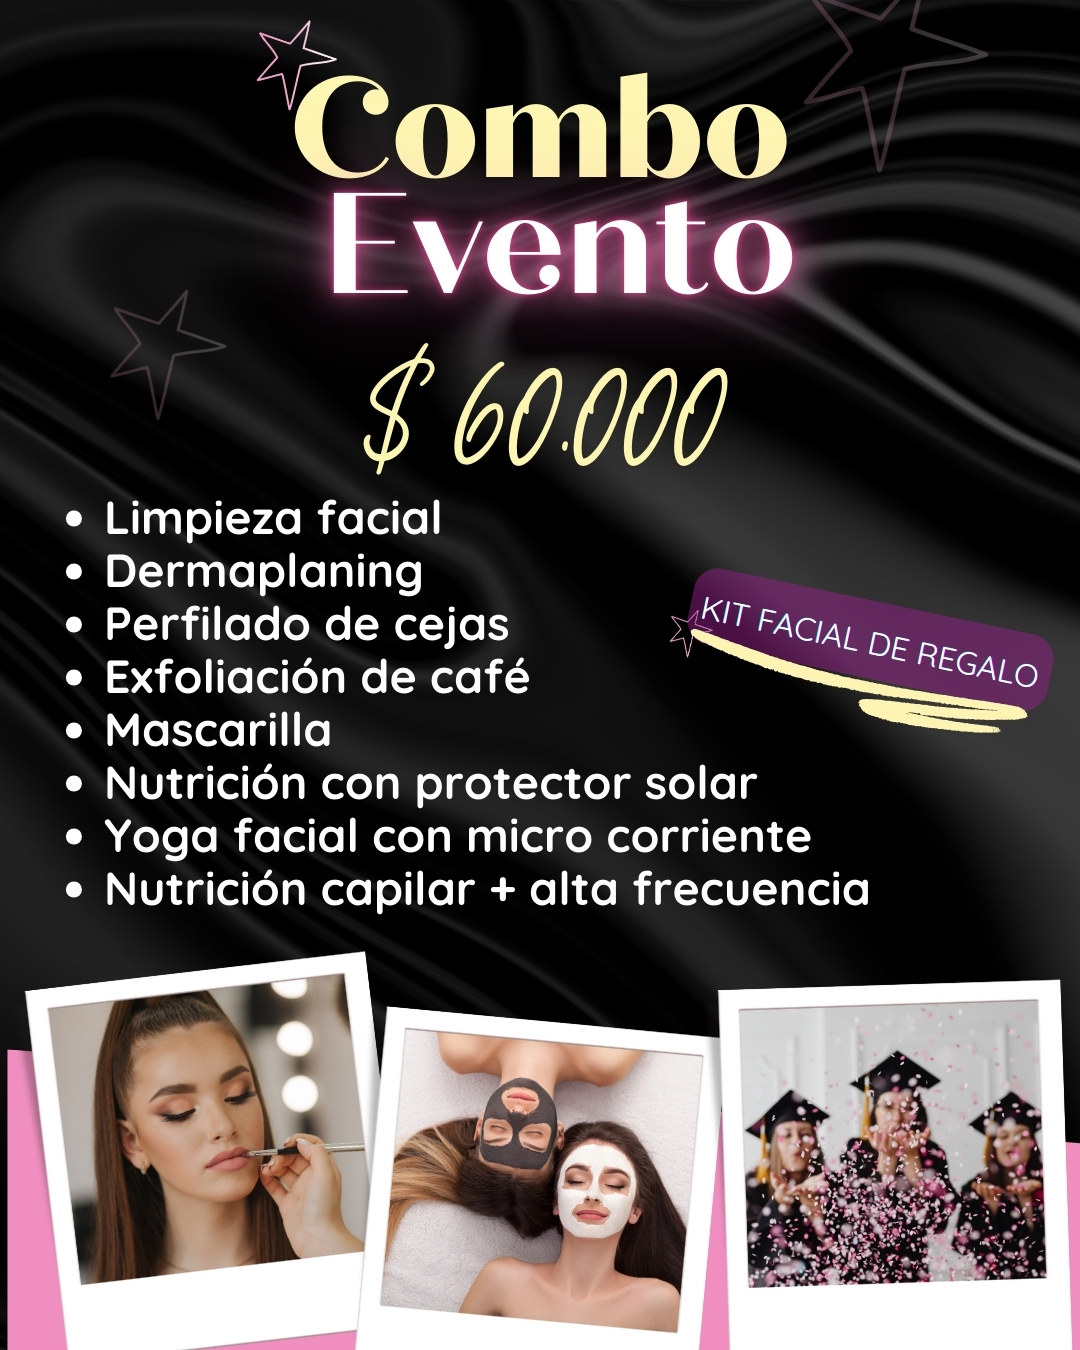
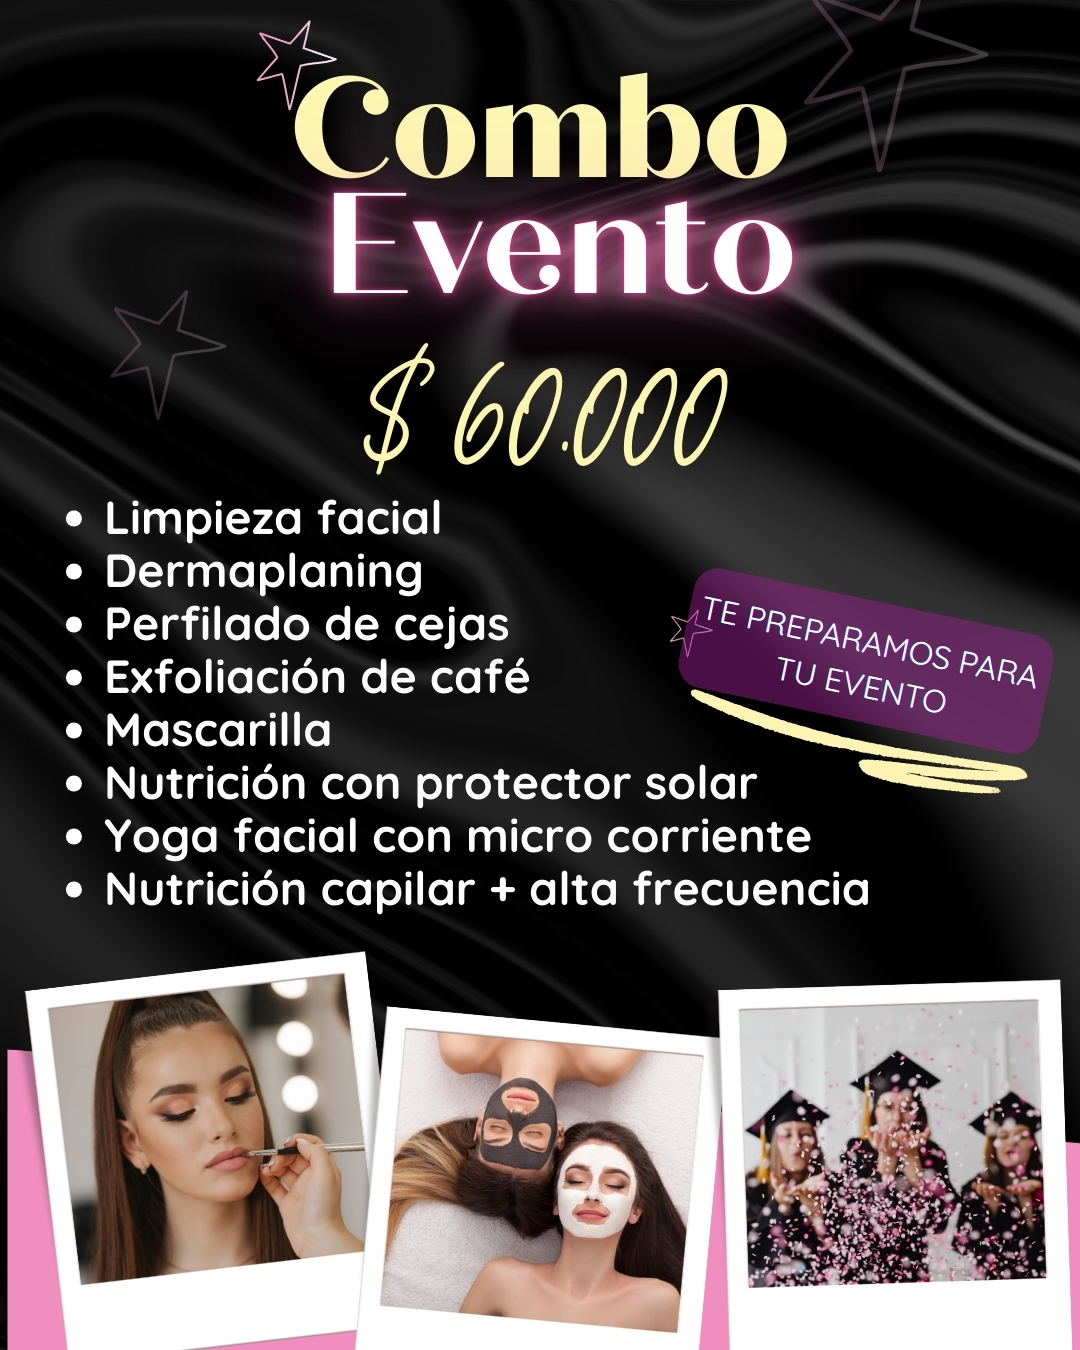
se cambiaron promos, imagenes y precios

Changed region(s): [[0.6111, 0.4356, 0.9778, 0.5911]]

diff --git a/catalogo.html b/catalogo.html
@@ -662,7 +662,7 @@
                 <div style="display: grid; grid-template-columns: repeat(auto-fit, minmax(300px, 1fr)); gap: 30px;">
                     <!-- mujer 1 -->
                     <div class="promo-card" style="position: relative;">
-                        <div class="featured-badge">🌺 Día de la Mujer</div>
+                        <div class="featured-badge">🌺 Todo Marzo</div>
                         <img src="imagenes/spa/promos/mujer-1.jpg" alt="promo mujer 1" class="promo-image"
                             loading="lazy">
                         <div style="padding: 30px;">
@@ -681,7 +681,7 @@
 
                     <!-- mujer 2 -->
                     <div class="promo-card" style="position: relative;">
-                        <div class="featured-badge">🌺 Día de la Mujer</div>
+                        <div class="featured-badge">🌺 Todo Marzo</div>
                         <img src="imagenes/spa/promos/mujer-2.jpg" alt="promo mujer 2" class="promo-image"
                             loading="lazy">
                         <div style="padding: 30px;">
@@ -700,7 +700,7 @@
 
                     <!-- Promo Bienestar -->
                     <div class="promo-card" style="position: relative;">
-                        <div class="featured-badge">⛱ Verano</div>
+                        <div class="featured-badge">⛱ Últimos días</div>
                         <img src="imagenes/spa/promos/promo-bienestar.jpg" alt="promo bienestar" class="promo-image"
                             loading="lazy">
                         <div style="padding: 30px;">
@@ -719,7 +719,7 @@
 
                     <!-- Promo masaje premium -->
                     <div class="promo-card" style="position: relative;">
-                        <div class="featured-badge">⭐ Masaje Premium</div>
+                        <div class="featured-badge">⭐</div>
                         <img src="imagenes/spa/promos/masaje-premium.jpg" alt="Masaje Premium" class="promo-image"
                             loading="lazy">
                         <div style="padding: 30px;">
@@ -759,7 +759,7 @@
 
                     <!-- Super Promo -->
                     <div class="promo-card" style="position: relative;">
-                        <div class="featured-badge">🔥 SUPER PROMO</div>
+                        <div class="featured-badge">🔥</div>
                         <img src="imagenes/spa/promos/super-promo.jpg" alt="super promo" class="promo-image"
                             loading="lazy">
                         <div style="padding: 30px;">
@@ -768,7 +768,7 @@
                                 💆 3 masajes de 60 minutos completos
                             </p>
                             <div style="display: flex; justify-content: space-between; align-items: center;">
-                                <span style="font-size: 1.5rem; font-weight: 700; color: var(--primary);">$85.000</span>
+                                <span style="font-size: 1.5rem; font-weight: 700; color: var(--primary);">$120.000</span>
                                 <a href="https://wa.me/5492615104019?text=Hola! Me interesa la Super Promo de 3 masajes"
                                     class="whatsapp-btn" target="_blank">
                                     <i class="fa-brands fa-whatsapp"></i> Reservar
@@ -1159,7 +1159,8 @@
                 <div class="info-card" style="margin-top: 50px;">
                     <div style="display: grid; grid-template-columns: repeat(auto-fit, minmax(250px, 1fr)); gap: 30px;">
                         <div>
-                            <h4 style="color: var(--primary); margin-bottom: 10px; font-size: 1.2rem;">Transferencia</h4>
+                            <h4 style="color: var(--primary); margin-bottom: 10px; font-size: 1.2rem;">Transferencia
+                            </h4>
                             <p style="color: #666; font-size: 0.95rem;">
                                 <strong>Alias / CBU</strong><br>
                                 Consultar por WhatsApp
@@ -1509,7 +1510,7 @@
 
                     <!-- Perfilado de Cejas -->
                     <div class="promo-card">
-                        <img src="imagenes/estetica/promos/perfilado-cejas.jpg" alt="promo perfilado de cejas"
+                        <img src="imagenes/estetica/promos/perfilado-cejas.jpg" alt="perfilado de cejas"
                             class="promo-image" loading="lazy">
                         <div style="padding: 30px;">
                             <h3 style="font-size: 1.5rem; margin-bottom: 15px; color: var(--dark);">Perfilado de Cejas
@@ -1616,19 +1617,19 @@
 
                     <!-- alisado + limpieza facial -->
                     <div class="promo-card">
-                        <img src="imagenes/estetica/promos/4.jpg" alt="Alisado + Limpieza facial" class="promo-image"
-                            loading="lazy">
+                        <img src="imagenes/estetica/promos/nutricion-limpieza-facial.jpg"
+                            alt="Nutricion + Limpieza facial" class="promo-image" loading="lazy">
                         <div style="padding: 30px;">
-                            <h3 style="font-size: 1.5rem; margin-bottom: 15px; color: var(--dark);">Alisado y facial
+                            <h3 style="font-size: 1.5rem; margin-bottom: 15px; color: var(--dark);">Nutrición y facial
                             </h3>
                             <p style="color: #666; margin-bottom: 20px; line-height: 1.8;">
-                                ✓ Alisado <br>
+                                ✓ Nutrición <br>
                                 ✓ Limpieza facial <br>
                             </p>
                             <div style="margin-bottom: 20px; text-align: center;">
                                 <span style="font-size: 1.8rem; font-weight: 700; color: var(--primary);">$35.000</span>
                             </div>
-                            <a href="https://wa.me/5492615104019?text=Hola! Me interesa el alisado + limpieza facial"
+                            <a href="https://wa.me/5492615104019?text=Hola! Me interesa la nutrición + limpieza facial"
                                 class="whatsapp-btn" target="_blank" style="width: 100%; justify-content: center;">
                                 <i class="fa-brands fa-whatsapp"></i> Reservar
                             </a>
@@ -1637,8 +1638,8 @@
 
                     <!-- limpieza facial + alisado con nutricion -->
                     <div class="promo-card">
-                        <img src="imagenes/estetica/promos/5.jpg" alt="Limpieza facial + alisado con nutricion"
-                            class="promo-image" loading="lazy">
+                        <img src="imagenes/estetica/promos/limpieza-facial-profunda.jpg"
+                            alt="Limpieza facial + alisado con nutricion" class="promo-image" loading="lazy">
                         <div style="padding: 30px;">
                             <h3 style="font-size: 1.5rem; margin-bottom: 15px; color: var(--dark);">Facial y alisado con
                                 nutrición
@@ -1667,6 +1668,27 @@
                 <h2 class="section-title">💆 Tratamientos Corporales</h2>
                 <div
                     style="display: grid; grid-template-columns: repeat(auto-fit, minmax(320px, 1fr)); gap: 30px; margin-top: 50px;">
+
+                    <!-- Piernas Cansadas -->
+                    <div class="promo-card">
+                        <img src="imagenes/estetica/promos/piernas-cansadas.jpg" alt="piernas cansadas"
+                            class="promo-image" loading="lazy">
+                        <div style="padding: 30px;">
+                            <h3 style="font-size: 1.5rem; margin-bottom: 15px; color: var(--dark);">Piernas Cansadas
+                            </h3>
+                            <p style="color: #666; margin-bottom: 20px; line-height: 1.8;">
+                                ✓ Masaje de 40 minutos<br>
+                                ✓ 10 minutos de botas de presoterapia de regalo 🎁
+                            </p>
+                            <div style="margin-bottom: 20px; text-align: center;">
+                                <span style="font-size: 1.8rem; font-weight: 700; color: var(--primary);">$40.000</span>
+                            </div>
+                            <a href="https://wa.me/5492615104019?text=Hola! Me interesa la promo de piernas cansadas"
+                                class="whatsapp-btn" target="_blank" style="width: 100%; justify-content: center;">
+                                <i class="fa-brands fa-whatsapp"></i> Reservar
+                            </a>
+                        </div>
+                    </div>
 
                     <!-- Drenajes Linfáticos -->
                     <div class="promo-card">
@@ -1855,29 +1877,9 @@
                         </div>
                     </div>
 
-                    <!-- Promo Especial Belleza Pies -->
-                    <div class="promo-card">
-                        <img src="imagenes/estetica/promos/reflexo-podal.jpg" alt="promo reflexo podal"
-                            class="promo-image" loading="lazy">
-                        <div style="padding: 30px;">
-                            <h3 style="font-size: 1.5rem; margin-bottom: 15px; color: var(--dark);">Promo Especial</h3>
-                            <p style="color: #666; margin-bottom: 20px; line-height: 1.8;">
-                                ✓ Belleza de pies<br>
-                                ✓ Reflexología podal de regalo 🎁
-                            </p>
-                            <div style="margin-bottom: 20px; text-align: center;">
-                                <span style="font-size: 1.8rem; font-weight: 700; color: var(--primary);">$30.000</span>
-                            </div>
-                            <a href="https://wa.me/5492615104019?text=Hola! Me interesa la Promo especial de belleza de pies"
-                                class="whatsapp-btn" target="_blank" style="width: 100%; justify-content: center;">
-                                <i class="fa-brands fa-whatsapp"></i> Reservar
-                            </a>
-                        </div>
-                    </div>
-
                     <!-- Pulido Corporal -->
                     <div class="promo-card">
-                        <img src="imagenes/estetica/promos/pulido-corporal.jpg" alt="promo pulido corporal"
+                        <img src="imagenes/estetica/promos/pulido-corporal.jpg" alt="pulido corporal"
                             class="promo-image" loading="lazy">
                         <div style="padding: 30px;">
                             <h3 style="font-size: 1.5rem; margin-bottom: 15px; color: var(--dark);">Pulido Corporal</h3>
@@ -2007,7 +2009,7 @@
                         </div>
                     </div> -->
 
-                    <div class="promo-card" style="position: relative;">
+                    <!-- <div class="promo-card" style="position: relative;">
                         <div class="featured-badge">2x1</div>
                         <img src="imagenes/estetica/promos/2x1-perfilados.jpg" alt="promo perfilado de cejas"
                             class="promo-image" loading="lazy">
@@ -2025,7 +2027,7 @@
                                 <i class="fa-brands fa-whatsapp"></i> Reservar
                             </a>
                         </div>
-                    </div>
+                    </div> -->
 
                     <!-- <div class="promo-card" style="position: relative;">
                         <div class="featured-badge">2x1</div>
@@ -2090,8 +2092,8 @@
                     <!-- Combo Evento -->
                     <div class="promo-card" style="position: relative;">
                         <div class="featured-badge">🎓 Eventos</div>
-                        <img src="imagenes/estetica/promos/combo-evento.jpg" alt="promo combo eventos"
-                            class="promo-image" loading="lazy">
+                        <img src="imagenes/estetica/promos/combo-evento.jpg" alt="combo evento" class="promo-image"
+                            loading="lazy">
                         <div style="padding: 30px;">
                             <h3 style="font-size: 1.5rem; margin-bottom: 15px; color: var(--dark);">Combo Evento</h3>
                             <ul
@@ -2102,7 +2104,6 @@
                                 <li>✓ Nutrición con protector solar</li>
                                 <li>✓ Yoga facial con microcorriente</li>
                                 <li>✓ Nutrición capilar + Alta frecuencia</li>
-                                <li>✓ Kit facial de regalo 🎁</li>
                             </ul>
                             <div style="margin-bottom: 20px; text-align: center;">
                                 <span style="font-size: 1.8rem; font-weight: 700; color: var(--primary);">$60.000</span>
@@ -2176,7 +2177,8 @@
                 <div class="info-card" style="margin-top: 50px;">
                     <div style="display: grid; grid-template-columns: repeat(auto-fit, minmax(250px, 1fr)); gap: 30px;">
                         <div>
-                            <h4 style="color: var(--primary); margin-bottom: 10px; font-size: 1.2rem;">Transferencia</h4>
+                            <h4 style="color: var(--primary); margin-bottom: 10px; font-size: 1.2rem;">Transferencia
+                            </h4>
                             <p style="color: #666; font-size: 0.95rem;">
                                 <strong>Alias / CBU</strong><br>
                                 Consultar por WhatsApp
